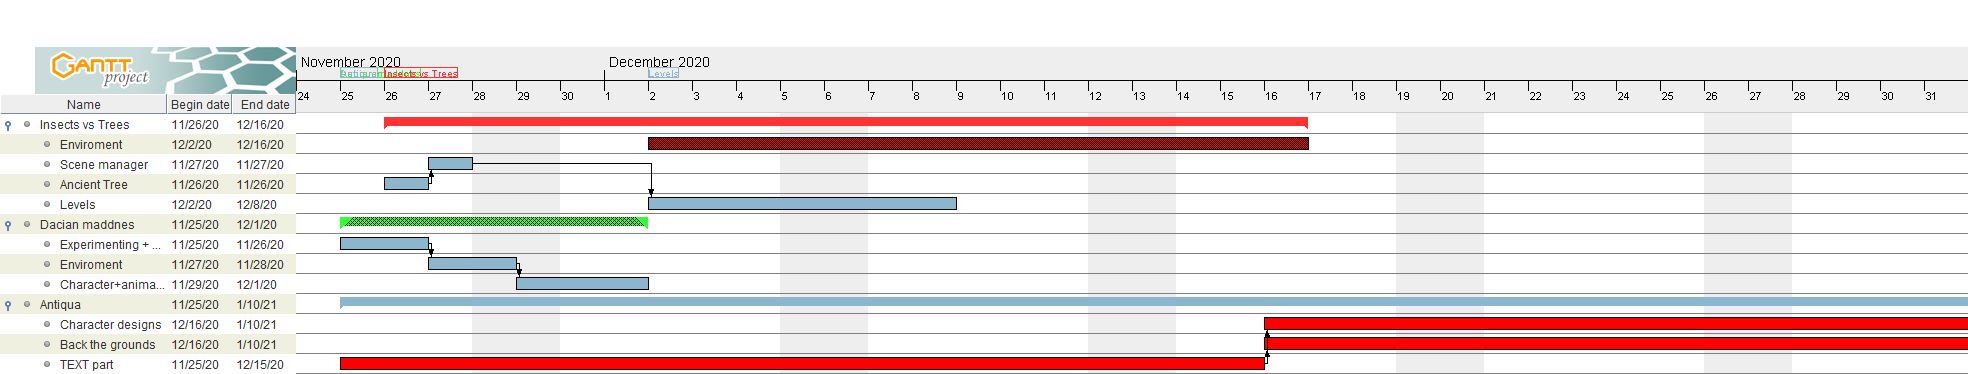
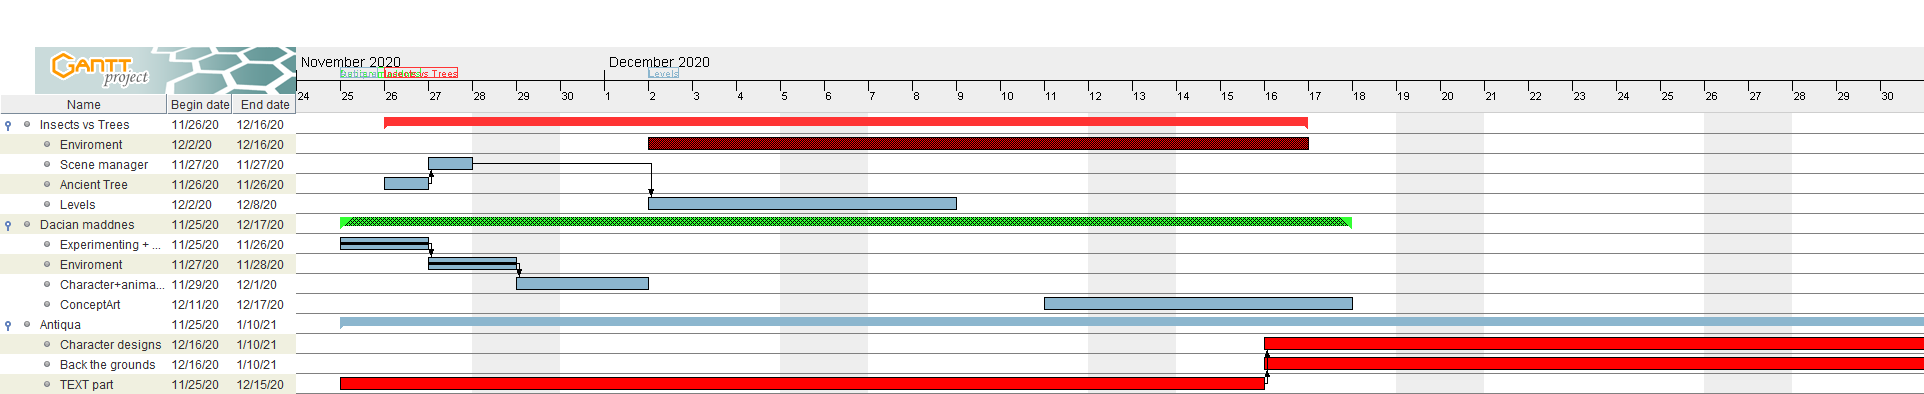
da

diff --git a/WehrMacht-tasks.html b/WehrMacht-tasks.html
@@ -240,7 +240,7 @@ h5.header {
 </div>
 </td><td valign="top" class="cell">
 <div style="margin:0; padding:0; padding-left:0.5em">
-<div style="margin: 0; padding: 0;">12/1/20</div>
+<div style="margin: 0; padding: 0;">12/17/20</div>
 </div>
 </td><td valign="top" class="cell">Dacic Master, BUBU</td>
 </tr>
@@ -286,6 +286,21 @@ h5.header {
 </td><td valign="top" class="cell">
 <div style="margin:0; padding:0; padding-left:0.5em">
 <div style="margin: 0; padding: 0;">12/1/20</div>
+</div>
+</td><td valign="top" class="cell"></td>
+</tr>
+<tr>
+<td valign="top" class="cell">
+<div style="margin:0; padding:0; padding-left:0.5em">
+<div style="margin: 0; padding: 0;">ConceptArt</div>
+</div>
+</td><td valign="top" class="cell">
+<div style="margin:0; padding:0; padding-left:0.5em">
+<div style="margin: 0; padding: 0;">12/11/20</div>
+</div>
+</td><td valign="top" class="cell">
+<div style="margin:0; padding:0; padding-left:0.5em">
+<div style="margin: 0; padding: 0;">12/17/20</div>
 </div>
 </td><td valign="top" class="cell"></td>
 </tr>
@@ -356,7 +371,7 @@ h5.header {
 <tr>
 <td bgcolor="#6d9ec6" width="50%"><font color="#FFFFFF"><b>Ganttproject (2.8.11 Pilsen (build 2396))</b></font></td><td bgcolor="#6d9ec6" width="50%" align="right"><b><a href="http://ganttproject.biz">ganttproject.biz</a></b>
 <br>
-<b>11/30/20 - 4:57:12 PM</b></td>
+<b>12/11/20 - 7:00:30 PM</b></td>
 </tr>
 </table>
 </body>

diff --git a/WehrMacht-chart.html b/WehrMacht-chart.html
@@ -122,7 +122,7 @@ div.page_links {
 <tr>
 <td bgcolor="#6d9ec6" width="50%"><font color="#FFFFFF"><b>Ganttproject (2.8.11 Pilsen (build 2396))</b></font></td><td bgcolor="#6d9ec6" width="50%" align="right"><b><a href="http://ganttproject.biz">ganttproject.biz</a></b>
 <br>
-<b>11/30/20 - 4:57:12 PM</b></td>
+<b>12/11/20 - 7:00:30 PM</b></td>
 </tr>
 </table>
 </body>

diff --git a/index.html b/index.html
@@ -152,7 +152,7 @@ div.page_links {
 <tr>
 <td bgcolor="#6d9ec6" width="50%"><font color="#FFFFFF"><b>Ganttproject (2.8.11 Pilsen (build 2396))</b></font></td><td bgcolor="#6d9ec6" width="50%" align="right"><b><a href="http://ganttproject.biz">ganttproject.biz</a></b>
 <br>
-<b>11/30/20 - 4:57:12 PM</b></td>
+<b>12/11/20 - 7:00:30 PM</b></td>
 </tr>
 </table>
 </body>

diff --git a/WehrMacht-resources.html b/WehrMacht-resources.html
@@ -169,7 +169,7 @@ h5.header {
 <tr>
 <td bgcolor="#6d9ec6" width="50%"><font color="#FFFFFF"><b>Ganttproject (2.8.11 Pilsen (build 2396))</b></font></td><td bgcolor="#6d9ec6" width="50%" align="right"><b><a href="http://ganttproject.biz">ganttproject.biz</a></b>
 <br>
-<b>11/30/20 - 4:57:12 PM</b></td>
+<b>12/11/20 - 7:00:30 PM</b></td>
 </tr>
 </table>
 </body>
